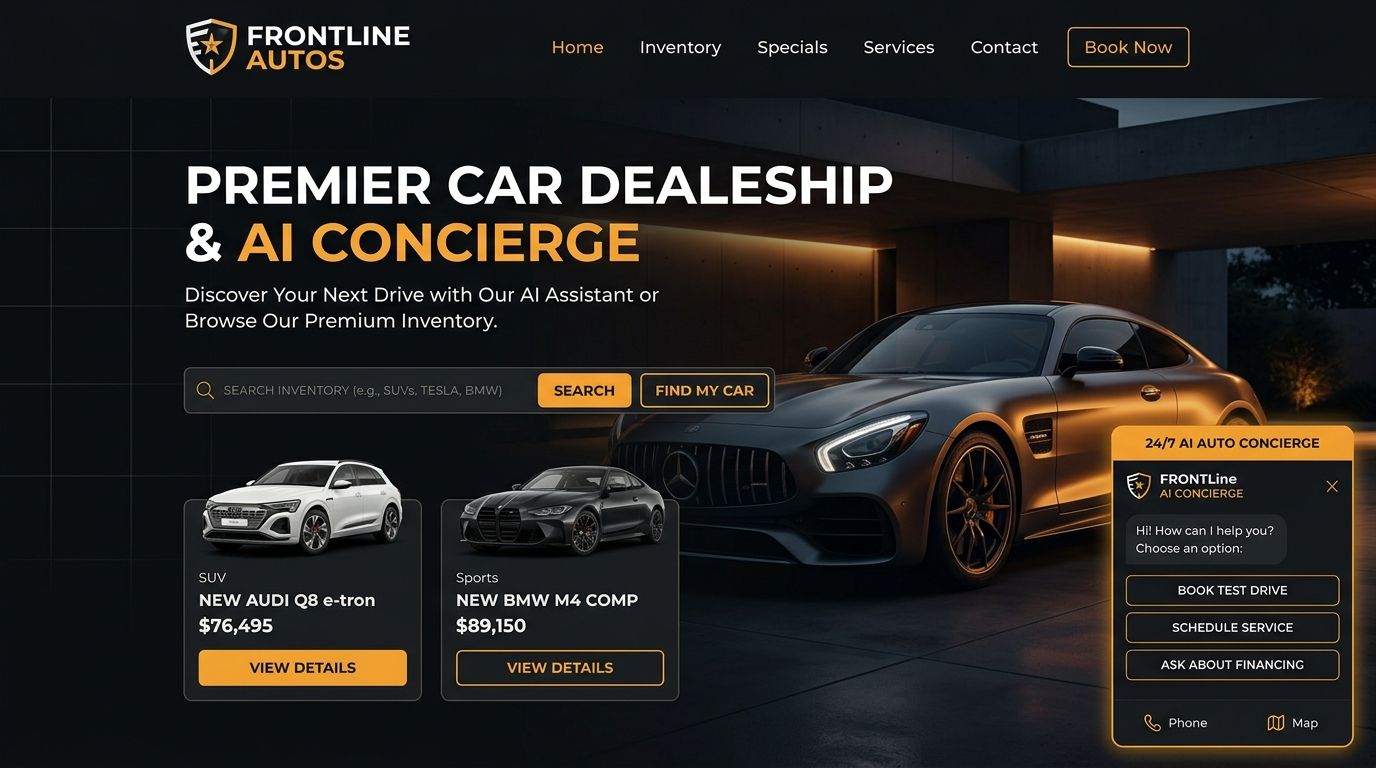
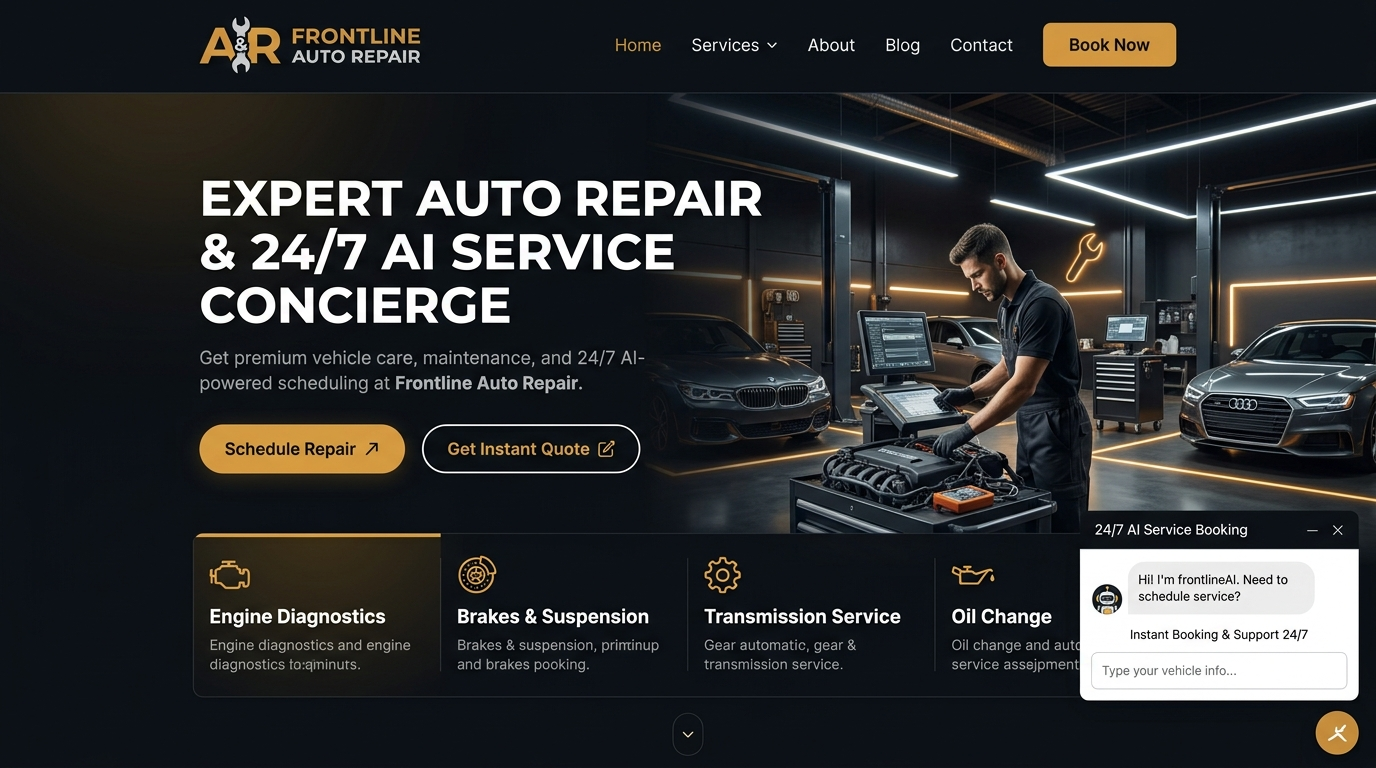
fix(portfolio): update Frontline Auto to Auto Repair & Service Center across all copy, metrics, and graphic poster

diff --git a/app/(spanish)/es/diseno-web-fort-lauderdale/page.tsx b/app/(spanish)/es/diseno-web-fort-lauderdale/page.tsx
@@ -112,11 +112,11 @@ export default function DisenoWebFortLauderdalePage() {
     },
     {
       id: "front-line-auto",
-      title: "Frontline Auto & AI Concierge",
-      category: "Motor Web para Concesionario",
+      title: "Frontline Auto Repair & Concierge IA de Servicio",
+      category: "Motor Web para Taller de Reparaciones",
       description:
-        "Plataforma para concesionario con chatbot concierge de IA 24/7 para consulta de inventario y agendamiento instantáneo de pruebas de manejo.",
-      tags: ["Inventario de Autos", "Concierge con IA", "Atención Bilingüe"],
+        "Plataforma web para taller de reparación automotriz equipada con un bot concierge de IA 24/7 para cotizaciones de reparación y agendamiento instantáneo de servicio.",
+      tags: ["Taller Automotriz", "Concierge de Servicio con IA", "Atención Bilingüe"],
       href: "/es/portafolio/front-line-auto",
     },
     {

diff --git a/app/(english)/services/website-design-fort-lauderdale/page.tsx b/app/(english)/services/website-design-fort-lauderdale/page.tsx
@@ -120,11 +120,11 @@ export default function WebsiteDesignFortLauderdalePage() {
     },
     {
       id: "front-line-auto",
-      title: "Frontline Auto & AI Concierge",
-      category: "Automotive Dealership Web Engine",
+      title: "Frontline Auto Repair & AI Service Concierge",
+      category: "Auto Repair & Maintenance Web Engine",
       description:
-        "Full-service dealership web platform equipped with an intelligent 24/7 AI auto concierge bot for inventory inquiries and instant test drive scheduling.",
-      tags: ["Dealership Inventory", "AI Auto Concierge", "Bilingual Support"],
+        "Full-service auto repair shop web platform equipped with an intelligent 24/7 AI service concierge bot for repair quotes and instant service booking.",
+      tags: ["Auto Repair Shop", "AI Service Concierge", "Bilingual Support"],
       href: "/portfolio/front-line-auto",
     },
     {

diff --git a/lib/portfolio.ts b/lib/portfolio.ts
@@ -352,7 +352,7 @@ export const PORTFOLIO_ITEMS: readonly PortfolioItem[] = [
   {
     id: "front-line-auto",
     category: "web-design",
-    title: "Frontline Auto & AI Concierge",
+    title: "Frontline Auto Repair & AI Service Concierge",
     titleI18nKey: "front-line-auto",
     descriptionI18nKey: "front-line-auto",
     creditsI18nKey: "front-line-auto",
@@ -364,7 +364,7 @@ export const PORTFOLIO_ITEMS: readonly PortfolioItem[] = [
     media: {
       kind: "image",
       src: "/portfolio/front-line-auto.jpg",
-      alt: "Frontline Auto Dealership Platform & AI Concierge Bot",
+      alt: "Frontline Auto Repair Platform & AI Service Concierge Bot",
       aspect: "16:9",
     },
   },
